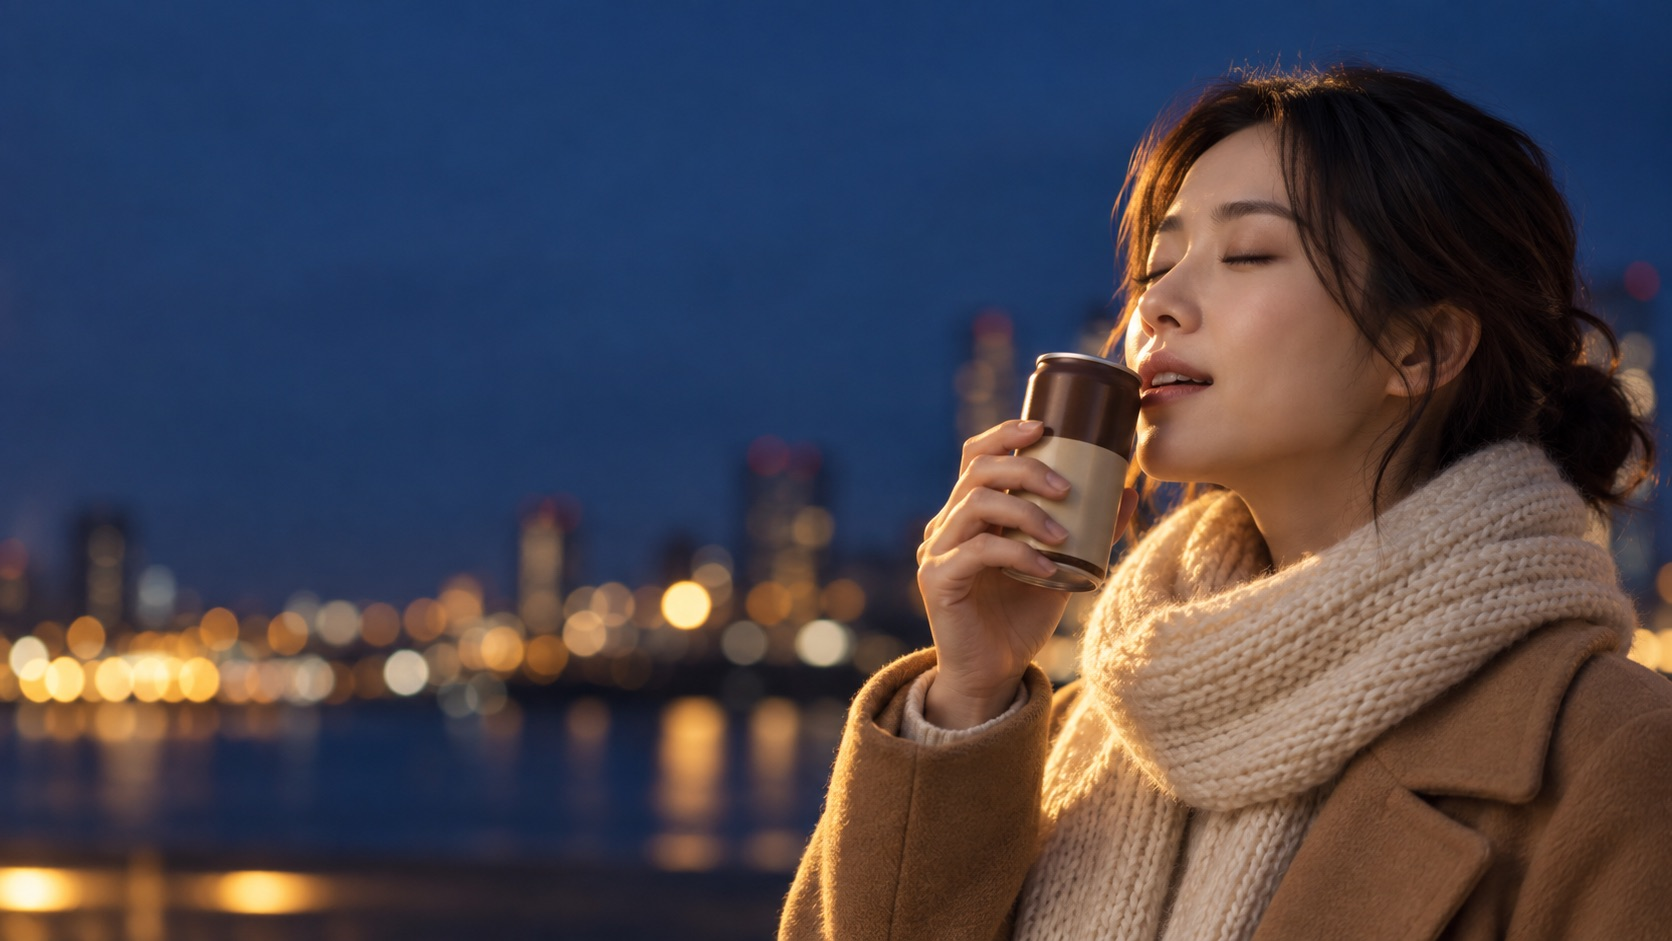
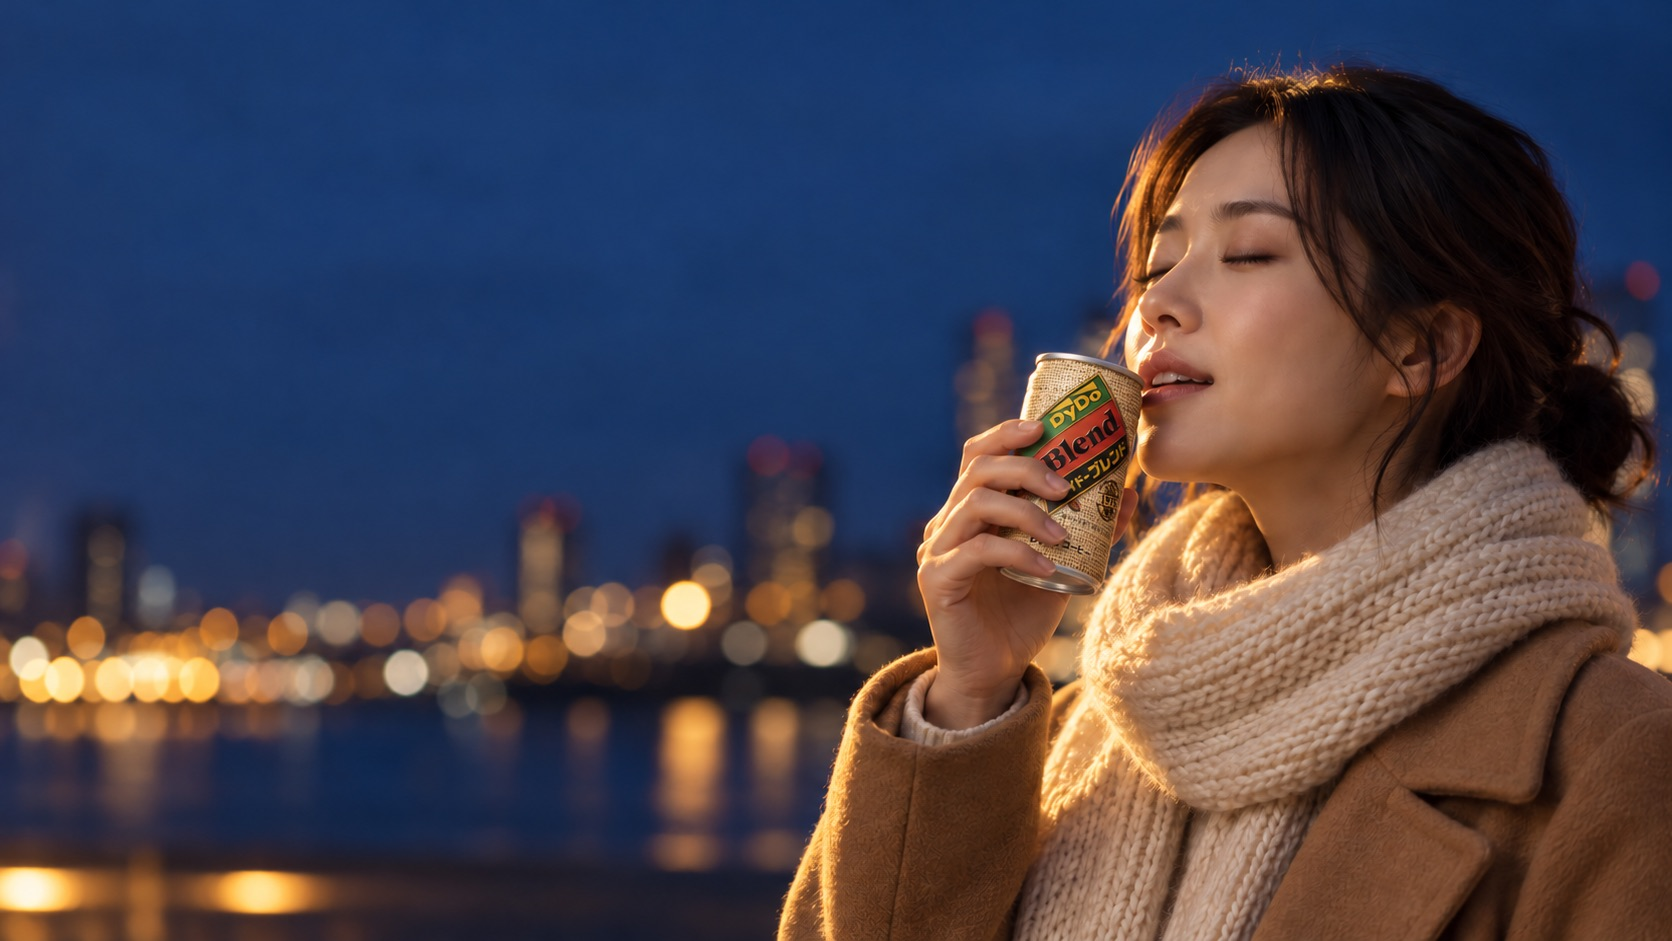
ヒーローの缶をダイドーブレンドに変更、白い息を口元の先へ、描画を軽量化

Changed region(s): [[0.5909, 0.3698, 0.6842, 0.6472], [0.7464, 0.0616, 0.8086, 0.1233], [0.4665, 0.9245, 0.4976, 1.0]]

diff --git a/assets/js/top.js b/assets/js/top.js
@@ -54,7 +54,7 @@
   }
   [].forEach.call(document.querySelectorAll('[data-count]'), function (n) { if (!reduce) n.textContent = '0'; });
 
-  /* ---------- ヒーロー：口元から出る冬の白い息 ---------- */
+  /* ---------- ヒーロー：口元の少し先で白く見える息 ---------- */
   (function breath() {
     var top = document.querySelector('.p-top');
     var cv = document.querySelector('.p-top__breath');
@@ -62,46 +62,55 @@
     if (!top || !cv || !img) return;
     var ctx = cv.getContext('2d');
     var IW = 1672, IH = 941;          // 元画像の大きさ
-    var MX = 0.706, MY = 0.408;       // 画像上の口元の位置（割合）
-    var W = 0, H = 0, dpr = 1, puffs = [], visible = true, last = 0, acc = 0, clock = 0;
+    var LX = 0.702, LY = 0.402;       // 口元の位置（画像上の割合）
+    var EX = 0.640, EY = 0.322;       // 息が白くはっきり見える位置（口元より少し先）
+    var SC = 0.5;                     // 描画解像度。やわらかい表現なので半分で足りる
+    var W = 0, H = 0, puffs = [], visible = true, last = 0, acc = 0, clock = 0, geo = null;
 
     function resize() {
-      dpr = Math.min(window.devicePixelRatio || 1, 2);
       W = top.clientWidth; H = top.clientHeight;
-      cv.width = W * dpr; cv.height = H * dpr;
+      cv.width = Math.round(W * SC); cv.height = Math.round(H * SC);
+      geo = null;
     }
-    // object-fit: cover の表示位置から、口元の画面座標を求める
-    function mouth() {
-      var r = img.getBoundingClientRect(), tr = top.getBoundingClientRect();
-      var bw = r.width, bh = r.height, sc = Math.max(bw / IW, bh / IH);
-      var dw = IW * sc, dh = IH * sc;
+    // object-fit: cover の表示位置から、息の出る点の座標を求める（変わるのは画面サイズが変わったときだけ）
+    function origin() {
+      if (geo) return geo;
+      var sc = Math.max(W / IW, H / IH), dw = IW * sc, dh = IH * sc;
       var cs = getComputedStyle(img).objectPosition.split(' ');
       var px = parseFloat(cs[0]) / 100, py = parseFloat(cs[1]) / 100;
-      var ox = (bw - dw) * px, oy = (bh - dh) * py;
-      return { x: r.left - tr.left + ox + dw * MX, y: r.top - tr.top + oy + dh * MY, s: sc };
+      var ox = (W - dw) * px, oy = (H - dh) * py;
+      geo = { x: ox + dw * EX, y: oy + dh * EY, lx: ox + dw * LX, ly: oy + dh * LY, s: sc };
+      return geo;
     }
+    // 口元から先に向かって、うっすらつながり、先ほど白く濃くなる
     function spawn(m) {
+      if (puffs.length > 80) return;
+      var u = Math.pow(Math.random(), 0.65);          // 0＝口元、1＝白くはっきり見える位置
+      var spread = (4 + 22 * u) * m.s;
       puffs.push({
-        x: m.x + (Math.random() - 0.5) * 4, y: m.y + (Math.random() - 0.5) * 3,
-        vx: -(10 + Math.random() * 16) * m.s, vy: -(14 + Math.random() * 16) * m.s,
-        r0: (4 + Math.random() * 3) * m.s, r1: (26 + Math.random() * 34) * m.s,
-        life: 4.2 + Math.random() * 2.2, age: 0, ph: Math.random() * 6.28,
-        a: 0.08 + Math.random() * 0.07, st: 1.1 + Math.random() * 0.5
+        x: lerp(m.lx, m.x, u) + (Math.random() - 0.5) * spread * 1.6,
+        y: lerp(m.ly, m.y, u) + (Math.random() - 0.5) * spread,
+        vx: -(8 + Math.random() * 14) * m.s, vy: -(12 + Math.random() * 14) * m.s,
+        r0: (4 + 6 * u + Math.random() * 3) * m.s, r1: (22 + 30 * u + Math.random() * 36) * m.s,
+        life: 3.6 + Math.random() * 2.4, age: 0, ph: Math.random() * 6.28,
+        a: (0.05 + 0.24 * u * u) * (0.7 + Math.random() * 0.6), st: 1.2 + Math.random() * 0.9
       });
     }
     function frame(ts) {
       requestAnimationFrame(frame);
       if (!visible) { last = ts; return; }
       var dt = Math.min((ts - (last || ts)) / 1000, 0.05); last = ts; clock += dt;
-      var m = mouth();
+      var m = origin();
       // 約6.5秒に1回、そっと息を吐く（1.4秒間）
       var cyc = clock % 6.5;
       if (cyc > 0.8 && cyc < 2.2) {
         acc += dt;
         var amp = Math.sin(Math.PI * (cyc - 0.8) / 1.4);   // 吐き始めと終わりはそっと
-        while (acc > 0.05) { acc -= 0.05; if (Math.random() < amp) spawn(m); }
+        while (acc > 0.035) { acc -= 0.035; if (Math.random() < amp) spawn(m); }
       }
-      ctx.setTransform(dpr, 0, 0, dpr, 0, 0);
+      if (!puffs.length) { if (cv._dirty) { ctx.clearRect(0, 0, cv.width, cv.height); cv._dirty = false; } return; }
+      cv._dirty = true;
+      ctx.setTransform(SC, 0, 0, SC, 0, 0);
       ctx.clearRect(0, 0, W, H);
       for (var i = puffs.length - 1; i >= 0; i--) {
         var p = puffs[i]; p.age += dt;
@@ -116,7 +125,7 @@
         ctx.scale(p.st + t * 0.5, 1);          // 風に流されて横に伸びる
         var g = ctx.createRadialGradient(0, 0, 0, 0, 0, r);
         g.addColorStop(0, 'rgba(255,255,255,' + a.toFixed(3) + ')');
-        g.addColorStop(0.45, 'rgba(238,244,255,' + (a * 0.5).toFixed(3) + ')');
+        g.addColorStop(0.5, 'rgba(238,244,255,' + (a * 0.55).toFixed(3) + ')');
         g.addColorStop(1, 'rgba(238,244,255,0)');
         ctx.fillStyle = g;
         ctx.beginPath(); ctx.arc(0, 0, r, 0, 6.2832); ctx.fill();
@@ -129,9 +138,9 @@
       new IntersectionObserver(function (es) { visible = es[0].isIntersecting; }).observe(top);
     }
     if (reduce) { // 動きを減らす設定：静止した息だけ描く
-      var m0 = mouth(), g0 = ctx.createRadialGradient(m0.x - 80, m0.y - 40, 0, m0.x - 80, m0.y - 40, 90 * m0.s);
-      g0.addColorStop(0, 'rgba(255,255,255,.35)'); g0.addColorStop(1, 'rgba(255,255,255,0)');
-      ctx.scale(dpr, dpr); ctx.fillStyle = g0; ctx.fillRect(0, 0, W, H);
+      var m0 = origin(), g0 = ctx.createRadialGradient(m0.x, m0.y, 0, m0.x, m0.y, 70 * m0.s);
+      g0.addColorStop(0, 'rgba(255,255,255,.25)'); g0.addColorStop(1, 'rgba(255,255,255,0)');
+      ctx.scale(SC, SC); ctx.fillStyle = g0; ctx.fillRect(0, 0, W, H);
       return;
     }
     requestAnimationFrame(frame);
@@ -140,21 +149,25 @@
   /* ---------- 3Dコーヒー缶 ---------- */
   var can = document.querySelector('.p-can');
   var stage = document.querySelector('.p-stage');
-  var slot = document.querySelector('.p-stage__slot');
   var guide = document.querySelector('.p-guide');
-  if (!can || !stage || !slot) return;
+  if (!can || !stage) return;
   var caps = [].slice.call(stage.querySelectorAll('.p-stage__cap'));
-  var g3 = null;
+  var g3 = null, loadStarted = false;
 
   var CW = 260, CH = 460;      // 缶を描く領域（上下に余白をとり、切れないようにする）
+  // 描画の細かさ。スマホや非力なPCでは下げて負担を減らす
+  var dprCap = Math.min(window.devicePixelRatio || 1, 2);
+  var lowPower = window.matchMedia('(pointer: coarse)').matches ||
+    (navigator.hardwareConcurrency && navigator.hardwareConcurrency <= 4);
+  var RES = lowPower ? Math.min(dprCap, 1.25) : Math.min(dprCap * 1.2, 2.2);
 
   function init3D() {
     var T = window.THREE;
     var cv = document.createElement('canvas');
-    var R = 3, renderer;
-    try { renderer = new T.WebGLRenderer({ canvas: cv, alpha: true, antialias: true }); }
+    var renderer;
+    try { renderer = new T.WebGLRenderer({ canvas: cv, alpha: true, antialias: RES < 2, powerPreference: 'low-power' }); }
     catch (e) { return; }
-    renderer.setPixelRatio(R); renderer.setSize(CW, CH, false);
+    renderer.setPixelRatio(RES); renderer.setSize(CW, CH, false);
     renderer.setClearColor(0x000000, 0);
     var scene = new T.Scene();
     var cam = new T.PerspectiveCamera(30, CW / CH, 0.1, 50);
@@ -167,19 +180,19 @@
     var rad = 0.95, hh = 3.7;
     var tex = new T.TextureLoader().load('assets/img/hero/can-dydo-blend.jpg');
     tex.wrapS = T.RepeatWrapping; tex.offset.x = 0.5;
-    tex.anisotropy = renderer.capabilities.getMaxAnisotropy ? renderer.capabilities.getMaxAnisotropy() : 8;
+    tex.anisotropy = 4;
     var side = new T.MeshPhongMaterial({ map: tex, shininess: 38, specular: 0x333333 });
     var cap = new T.MeshPhongMaterial({ color: 0xd2d2d2, shininess: 110, specular: 0x999999 });
     var can3 = new T.Group();
-    can3.add(new T.Mesh(new T.CylinderGeometry(rad, rad, hh, 64, 1), [side, cap, cap]));
+    can3.add(new T.Mesh(new T.CylinderGeometry(rad, rad, hh, 48, 1), [side, cap, cap]));
     [1, -1].forEach(function (d) {
-      var ring = new T.Mesh(new T.TorusGeometry(rad - 0.02, 0.05, 16, 64), cap);
+      var ring = new T.Mesh(new T.TorusGeometry(rad - 0.02, 0.05, 10, 48), cap);
       ring.rotation.x = Math.PI / 2; ring.position.y = d * hh / 2; can3.add(ring);
     });
-    var lid = new T.Mesh(new T.CylinderGeometry(rad - 0.12, rad - 0.12, 0.04, 64),
+    var lid = new T.Mesh(new T.CylinderGeometry(rad - 0.12, rad - 0.12, 0.04, 48),
       new T.MeshPhongMaterial({ color: 0xe0e0e0, shininess: 120, specular: 0xaaaaaa }));
     lid.position.y = hh / 2 + 0.01; can3.add(lid);
-    var tab = new T.Mesh(new T.CylinderGeometry(0.2, 0.2, 0.03, 32), cap);
+    var tab = new T.Mesh(new T.CylinderGeometry(0.2, 0.2, 0.03, 24), cap);
     tab.scale.set(1.3, 1, 0.9); tab.position.set(0.1, hh / 2 + 0.04, 0.1); can3.add(tab);
     scene.add(can3);
 
@@ -194,46 +207,62 @@
     can.appendChild(cv);
     can.classList.add('is-3d');
   }
-  (function load3D() {
+  // 3Dの部品（約600KB）は、ステージが近づいてから読み込む。最初の表示を軽くするため
+  function load3D() {
+    if (loadStarted) return; loadStarted = true;
     var sc = document.createElement('script');
     sc.src = 'https://cdnjs.cloudflare.com/ajax/libs/three.js/r128/three.min.js';
     sc.onload = function () { if (window.THREE) init3D(); };
     document.head.appendChild(sc);
-  })();
+  }
 
   /* ---------- 缶の動き：ステージで大きく回る → 左右の余白で案内 ---------- */
   var secs = [].slice.call(document.querySelectorAll('.l-main section[aria-labelledby]'))
     .filter(function (s) { return !s.classList.contains('p-related'); });
   var names = secs.map(function (s) { var h = s.querySelector('h2'); return h ? h.textContent.trim() : ''; });
 
-  var cur = { x: 0, y: 0, s: 1, r: 0, ry: 0, a: 0 }, tar = { x: 0, y: 0, s: 1, r: 0, ry: 0, a: 0 };
-  var first = true, idx = -1, eNow = 0;
+  // 位置は毎フレーム測らず、画面サイズが変わったときだけ測り直す（読み込みが軽くなる）
+  var L = { vw: 0, vh: 0, stageTop: 0, stageH: 1, tops: [], hs: [], docH: 1 };
+  function measure() {
+    var y = window.scrollY, sr = stage.getBoundingClientRect();
+    L.vw = window.innerWidth; L.vh = window.innerHeight;
+    L.stageTop = sr.top + y; L.stageH = sr.height;
+    L.tops = []; L.hs = [];
+    secs.forEach(function (s) { var r = s.getBoundingClientRect(); L.tops.push(r.top + y); L.hs.push(r.height); });
+    L.docH = document.documentElement.scrollHeight;
+  }
+  var mTimer = 0;
+  function remeasure() { cancelAnimationFrame(mTimer); mTimer = requestAnimationFrame(measure); }
+  measure();
+  window.addEventListener('resize', remeasure);
+  window.addEventListener('load', function () { setTimeout(measure, 300); });
+  if (window.ResizeObserver) new ResizeObserver(remeasure).observe(document.body);
 
-  function section() {
-    var vh = window.innerHeight, line = vh * 0.45, k = -1, f = 0;
-    for (var i = 0; i < secs.length; i++) {
-      if (secs[i].getBoundingClientRect().top <= line) k = i;
-    }
-    if (k >= 0) {
-      var r = secs[k].getBoundingClientRect();
-      f = k + 1 + clamp((line - r.top) / Math.max(r.height, 1), 0, 0.999);
-    }
+  var cur = { x: 0, y: 0, s: 1, r: 0, ry: 0, a: 0 }, tar = { x: 0, y: 0, s: 1, r: 0, ry: 0, a: 0 };
+  var first = true, idx = -1, eNow = 0, ciPrev = -2, liveNow = false, showNow = null;
+  var lastT = '', lastO = '', lastProg = -1, skip = 0;
+
+  function section(y, vh) {
+    var line = vh * 0.45, k = -1, f = 0;
+    for (var i = 0; i < L.tops.length; i++) { if (L.tops[i] - y <= line) k = i; }
+    if (k >= 0) f = k + 1 + clamp((line - (L.tops[k] - y)) / Math.max(L.hs[k], 1), 0, 0.999);
     return { k: k, f: f };
   }
-
   function stageCap(prog) { return prog < 0.04 ? -1 : Math.min(caps.length - 1, Math.floor((prog - 0.04) / 0.32)); }
 
   function compute() {
-    var vw = window.innerWidth, vh = window.innerHeight, y = window.scrollY;
+    var vw = L.vw, vh = L.vh, y = window.scrollY;
     var wide = vw >= 1200, big = vw >= 1100;
-    var sr = stage.getBoundingClientRect(), lr = slot.getBoundingClientRect();
-    var prog = clamp(-sr.top / Math.max(sr.height - vh, 1), 0, 1);
-    var enter = clamp((vh - sr.top) / (vh * 0.7), 0, 1);
-    var e = smooth(clamp((vh - sr.bottom) / (vh * 0.9), 0, 1));
-    var sec = section(), f = sec.f;
+    var srTop = L.stageTop - y, srBottom = srTop + L.stageH;
+    var prog = clamp(-srTop / Math.max(L.stageH - vh, 1), 0, 1);
+    var enter = clamp((vh - srTop) / (vh * 0.7), 0, 1);
+    var e = smooth(clamp((vh - srBottom) / (vh * 0.9), 0, 1));
+    var sec = section(y, vh), f = sec.f;
     eNow = e;
 
-    var hx = lr.left + lr.width / 2, hy = lr.top + lr.height / 2;
+    // ステージの中心（CSS の sticky の位置と同じ計算）
+    var pinTop = Math.min(Math.max(srTop, 0), srBottom - vh);
+    var hx = vw / 2, hy = pinTop + vh * (big ? 0.5 : 0.36);
     var hs = Math.min(vh * (big ? 0.58 : 0.44) / 368, big ? 1.5 : 1.15) * lerp(0.55, 1, smooth(enter));
 
     var dx, dy, ds;
@@ -259,19 +288,17 @@
     idx = sec.k;
     if (first) { cur.x = tar.x; cur.y = tar.y; cur.s = tar.s; cur.r = tar.r; cur.ry = tar.ry; first = false; }
 
-    // ステージの文字を、回転の進み具合に合わせて切り替える
-    var ci = ci0;
-    if (e > 0.02) ci = -1;
-    caps.forEach(function (c, i) { c.classList.toggle('is-on', i === ci); });
-
-    root.style.setProperty('--sy', y);
+    // ステージの文字を、回転の進み具合に合わせて切り替える（変わったときだけ触る）
+    var ci = e > 0.02 ? -1 : ci0;
+    if (ci !== ciPrev) { ciPrev = ci; caps.forEach(function (c, i) { c.classList.toggle('is-on', i === ci); }); }
     updateGuide(y, vh);
+    return y;
   }
 
   function updateGuide(y, vh) {
     if (!guide) return;
-    var total = document.documentElement.scrollHeight - vh;
-    guide.style.setProperty('--prog', clamp(y / Math.max(total, 1), 0, 1).toFixed(3));
+    var prog = Math.round(clamp(y / Math.max(L.docH - vh, 1), 0, 1) * 500) / 500;
+    if (prog !== lastProg) { lastProg = prog; guide.style.setProperty('--prog', prog); }
     var label, next = idx + 1;
     if (idx < 0) label = '次は「' + (names[0] || '') + '」へ <span class="p-guide__arrow">▼</span>';
     else if (next < secs.length) label = '今は <b>' + names[idx] + '</b>　次は「' + names[next] + '」へ <span class="p-guide__arrow">▼</span>';
@@ -280,7 +307,8 @@
       guide.innerHTML = '<span class="p-guide__txt">' + label + '</span><span class="p-guide__bar"></span>';
       guide.dataset.label = label;
     }
-    guide.classList.toggle('is-show', eNow > 0.35);
+    var show = eNow > 0.35;
+    if (show !== showNow) { showNow = show; guide.classList.toggle('is-show', show); }
   }
 
   function go() {
@@ -297,21 +325,31 @@
   if (guide) guide.addEventListener('click', function (ev) { ev.preventDefault(); go(); });
 
   function frame() {
-    compute();
+    requestAnimationFrame(frame);
+    var y = compute();
+    if (!loadStarted && y > L.vh * 0.25) load3D();
     var d = reduce ? 1 : 0.14;
     cur.x = lerp(cur.x, tar.x, d); cur.y = lerp(cur.y, tar.y, d);
     cur.s = lerp(cur.s, tar.s, d); cur.r = lerp(cur.r, tar.r, d); cur.ry = lerp(cur.ry, tar.ry, d);
     cur.a = lerp(cur.a, tar.a, 0.2);
-    if (g3) {
-      var tt = performance.now() / 1000;
-      var idle = reduce ? 0 : lerp(Math.sin(tt * 0.9) * 0.25, tt * 0.55, eNow);
-      g3.render(cur.ry + idle, tt);
+
+    // 缶が見えていないとき（ヒーロー表示中）は、3Dを描かない
+    if (g3 && cur.a > 0.02) {
+      // 左右の余白に小さく収まっている間は、描く頻度を半分にする
+      if (eNow > 0.5 && (skip ^= 1)) { /* このフレームは描かない */ }
+      else {
+        var tt = performance.now() / 1000;
+        var idle = reduce ? 0 : lerp(Math.sin(tt * 0.9) * 0.25, tt * 0.55, eNow);
+        g3.render(cur.ry + idle, tt);
+      }
     }
-    can.style.opacity = cur.a.toFixed(3);
-    can.classList.toggle('is-live', cur.a > 0.5);
-    can.style.transform = 'translate(' + (cur.x - CW / 2).toFixed(1) + 'px,' + (cur.y - CH / 2).toFixed(1) +
-      'px) rotate(' + cur.r.toFixed(2) + 'deg) scale(' + Math.max(cur.s, 0.01).toFixed(3) + ')';
-    requestAnimationFrame(frame);
+    var o = cur.a.toFixed(2);
+    if (o !== lastO) { lastO = o; can.style.opacity = o; }
+    var live = cur.a > 0.5;
+    if (live !== liveNow) { liveNow = live; can.classList.toggle('is-live', live); }
+    var tr = 'translate3d(' + (cur.x - CW / 2).toFixed(1) + 'px,' + (cur.y - CH / 2).toFixed(1) +
+      'px,0) rotate(' + cur.r.toFixed(2) + 'deg) scale(' + Math.max(cur.s, 0.01).toFixed(3) + ')';
+    if (tr !== lastT) { lastT = tr; can.style.transform = tr; }
   }
-  frame();
+  requestAnimationFrame(frame);
 })();

diff --git a/assets/css/motion.css b/assets/css/motion.css
@@ -10,12 +10,9 @@
   min-height: clamp(560px, calc(100svh - 150px), 920px);
   display: flex; align-items: center;
 }
-.p-top__img {
-  position: absolute; inset: 0; width: 100%; height: 100%;
-  object-fit: cover; object-position: 70% 40%;
-  animation: topZoom 14s ease-out both;
-}
-@keyframes topZoom { from { transform: scale(1.12); } to { transform: scale(1); } }
+.p-top__zoom { position: absolute; inset: 0; animation: topZoom 9s ease-out both; will-change: transform; }
+.p-top__img { position: absolute; inset: 0; width: 100%; height: 100%; object-fit: cover; object-position: 70% 40%; }
+@keyframes topZoom { from { transform: scale(1.08); } to { transform: scale(1); } }
 .p-top__breath { position: absolute; inset: 0; width: 100%; height: 100%; pointer-events: none; }
 .p-top__shade {
   position: absolute; inset: 0; pointer-events: none;
@@ -129,9 +126,10 @@
 .p-can {
   position: fixed; left: 0; top: 0; width: 260px; height: 460px; z-index: 60;
   margin: 0; padding: 0; border: 0; background: none; cursor: pointer;
-  opacity: 0; pointer-events: none; will-change: transform; transform-origin: 50% 50%;
-  filter: drop-shadow(0 18px 18px rgba(80,40,10,.35));
+  opacity: 0; pointer-events: none; will-change: transform, opacity; transform-origin: 50% 50%;
 }
+.p-can::before { content: ""; position: absolute; left: 16%; right: 16%; bottom: 3%; height: 5%;
+  background: radial-gradient(closest-side, rgba(80,40,10,.32), rgba(80,40,10,0)); }
 .p-can.is-live { pointer-events: auto; }
 .p-can svg { display: block; width: 100%; height: 100%; overflow: visible; }
 .p-can.is-3d svg { display: none; }

diff --git a/index.html b/index.html
@@ -64,9 +64,11 @@
 
   <!-- ========== ヒーロー：冬の一杯 ========== -->
   <section class="p-top" aria-label="トップビジュアル">
-    <img class="p-top__img" src="assets/img/hero/hero-woman.jpg" width="1672" height="941"
-         alt="冬の夕暮れ、缶コーヒーを口元に運んでほっと息をつく女性">
-    <canvas class="p-top__breath" aria-hidden="true"></canvas>
+    <div class="p-top__zoom">
+      <img class="p-top__img" src="assets/img/hero/hero-woman.jpg" width="1672" height="941"
+           alt="冬の夕暮れ、缶コーヒーを口元に運んでほっと息をつく女性" fetchpriority="high">
+      <canvas class="p-top__breath" aria-hidden="true"></canvas>
+    </div>
     <div class="p-top__shade" aria-hidden="true"></div>
     <div class="l-container p-top__inner">
       <p class="p-top__eyebrow">株式会社 安東商会　大分の自動販売機</p>
